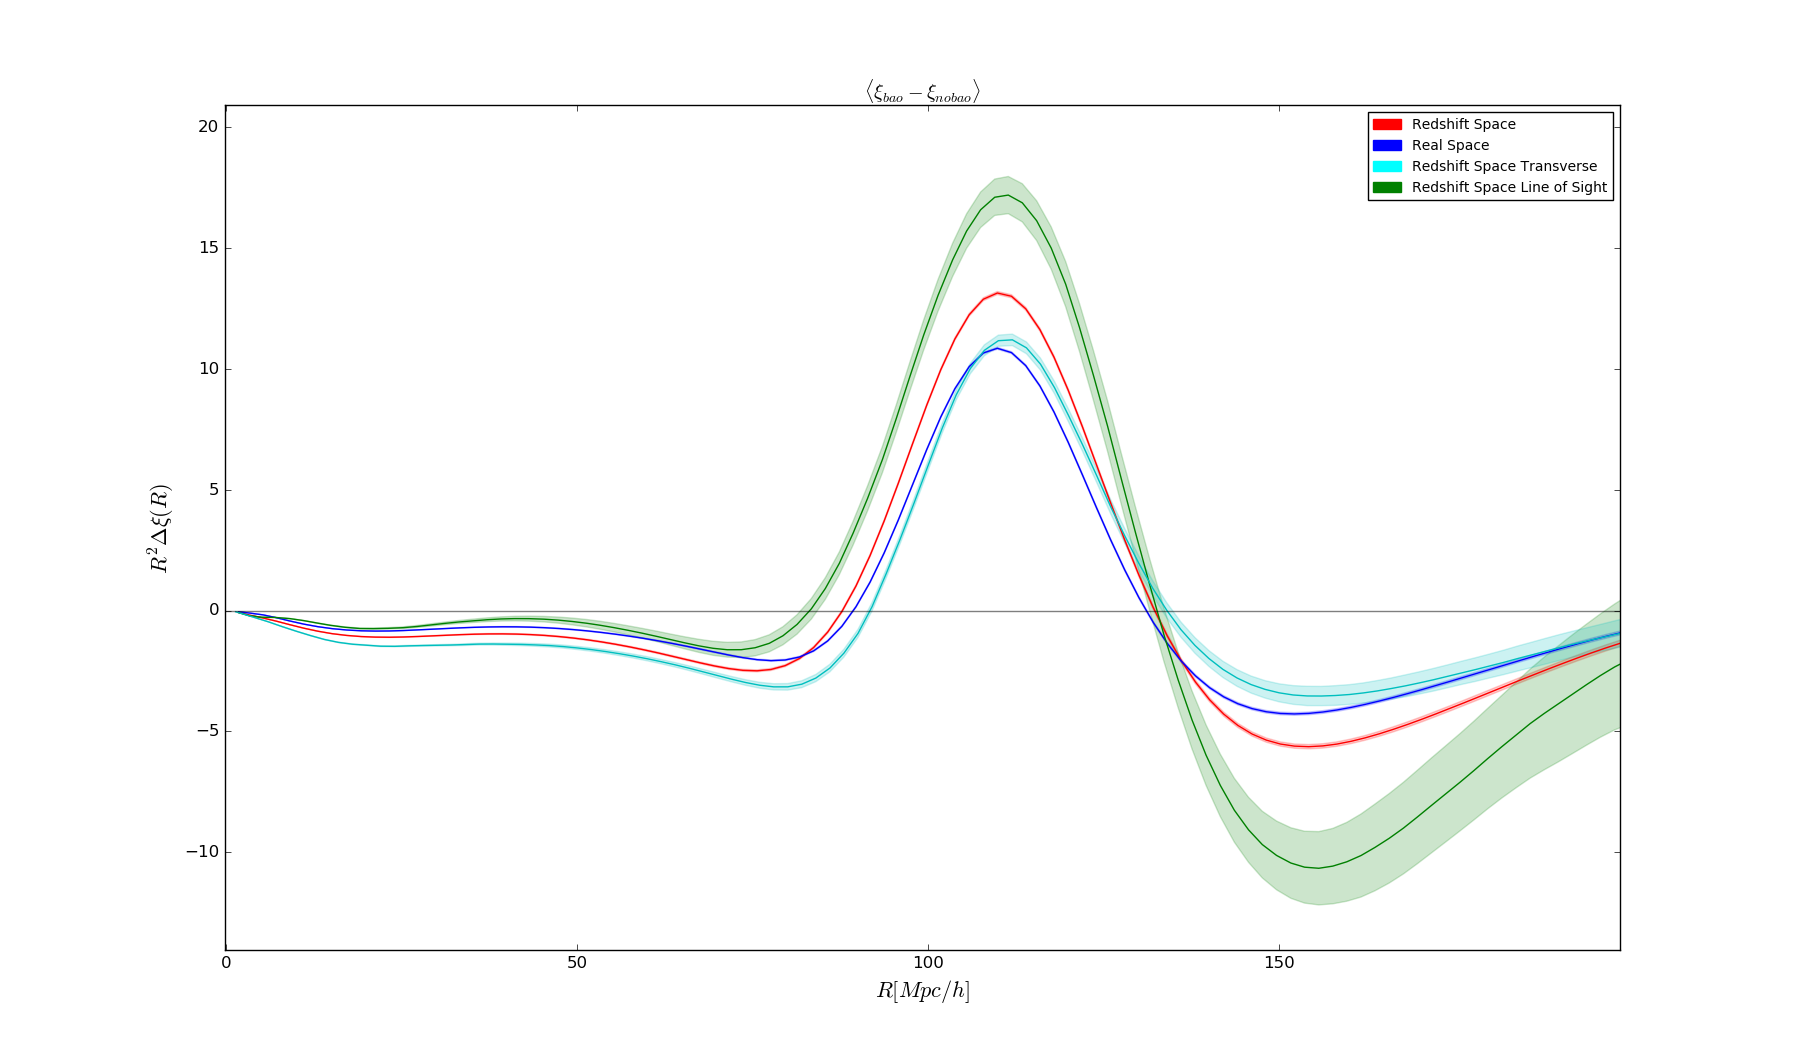
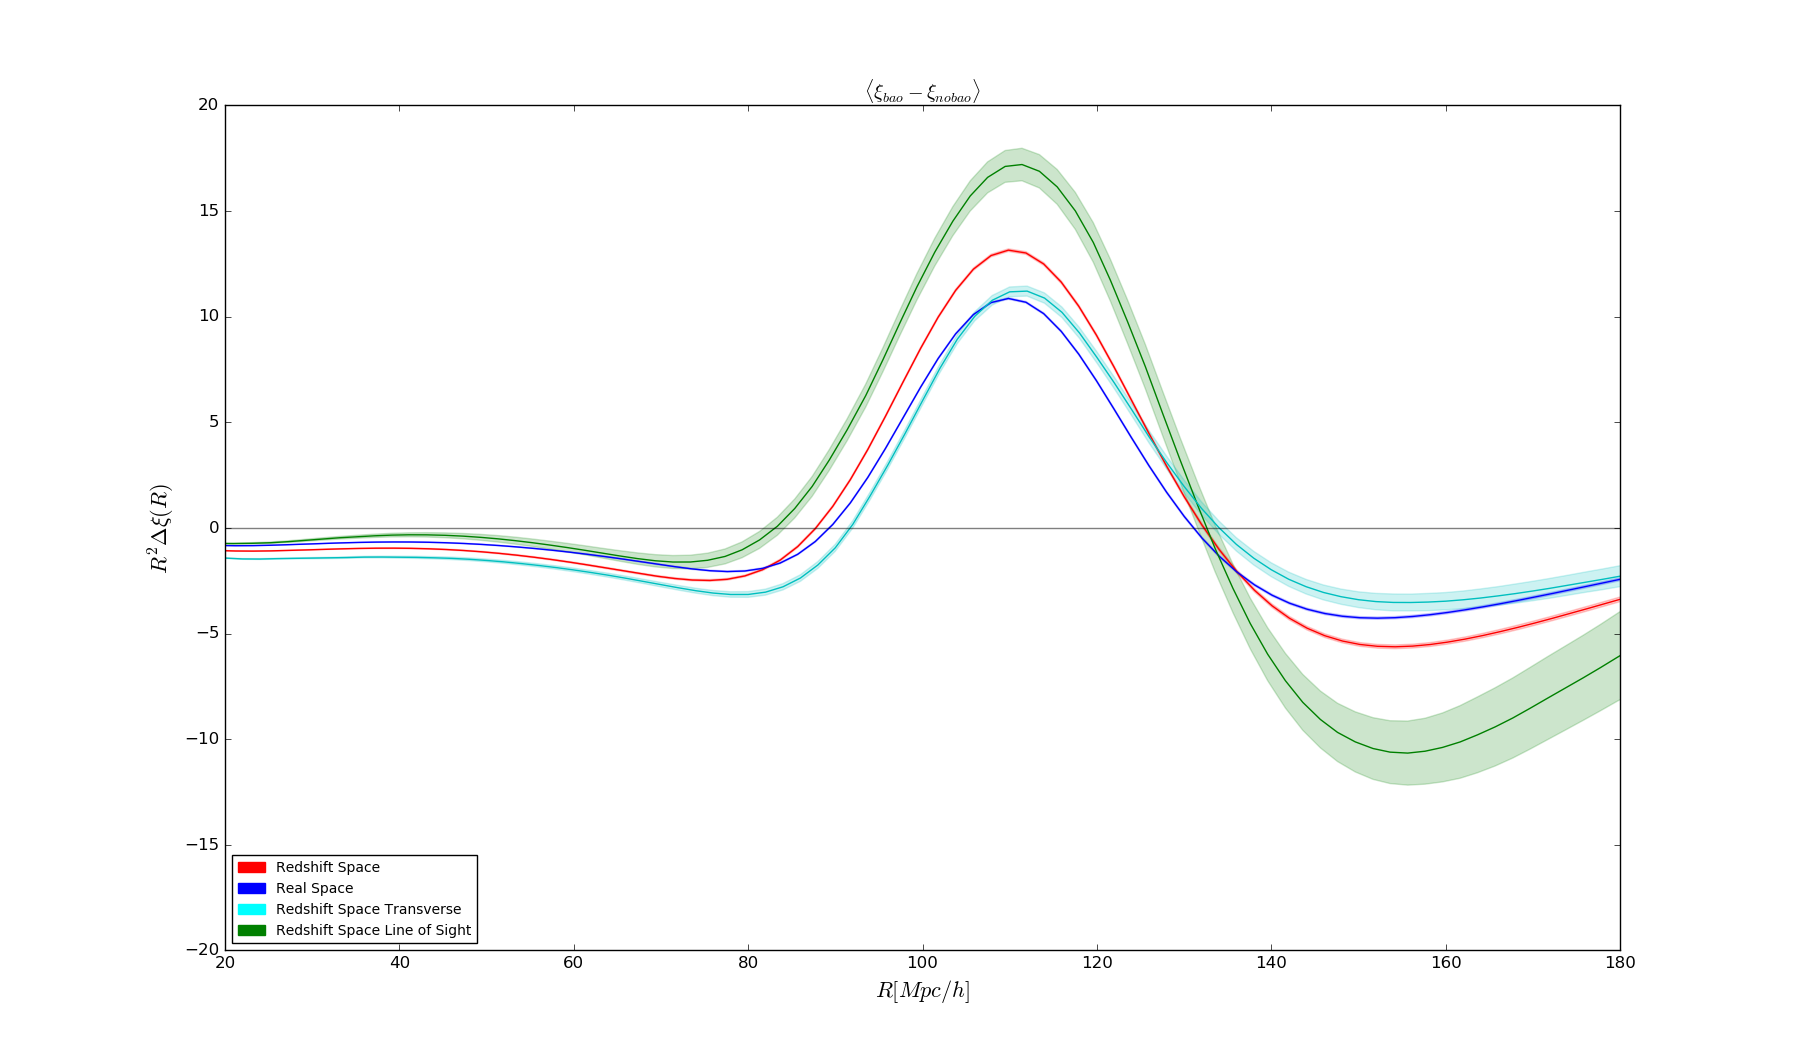
New plots

diff --git a/render_script.py b/render_script.py
@@ -221,8 +221,8 @@ def meeting_plot_xidiff_unscale(folder):
     plt.xlabel("$R [Mpc/h]$", size = 16)
     plt.ylabel("$\\Delta \\xi (R)$", size = 16)
     plt.title("$\\langle\\xi_{bao}-\\xi_{no bao}\\rangle$")
-    plt.legend([rsdArtist, realArtist, transArtist, losArtist, baoArtist, nbaoArtist], ["Redshift Space", "Real Space", "Redshift Space Transverse", "Redshift Space Line of Sight"], prop={'size':10}, loc=2)
-    plt.axis([0,150,-0.01,0.01])
+    plt.legend([rsdArtist, realArtist, transArtist, losArtist, baoArtist, nbaoArtist], ["Redshift Space", "Real Space", "Redshift Space Transverse", "Redshift Space Line of Sight"], prop={'size':10}, loc=4)
+    plt.axis([20,180,-0.002,0.003])
     plt.show()
 
 #--------------------------------------------------------------------------------
@@ -317,8 +317,8 @@ def meeting_plot_xidiff(folder):
     plt.xlabel("$R [Mpc/h]$", size = 16)
     plt.ylabel("$R^2\\Delta\\xi (R)$", size = 16)
     plt.title("$\\langle\\xi_{bao}-\\xi_{no bao}\\rangle$")
-    plt.legend([rsdArtist, realArtist, transArtist, losArtist, baoArtist, nbaoArtist], ["Redshift Space", "Real Space", "Redshift Space Transverse", "Redshift Space Line of Sight"], prop={'size':10})
-#    plt.axis([0,250,-60,80])
+    plt.legend([rsdArtist, realArtist, transArtist, losArtist, baoArtist, nbaoArtist], ["Redshift Space", "Real Space", "Redshift Space Transverse", "Redshift Space Line of Sight"], prop={'size':10}, loc =3)
+    plt.axis([20,180,-20,20])
     plt.show()
 
 
@@ -430,4 +430,4 @@ if __name__ == "__main__":
 
     folder = "/gpfs/data/rhgk18/results/b1024_ng512_np1024"
 
-    meeting_plot_xidiff(folder)
+    meeting_plot_xidiff_unscale(folder)
